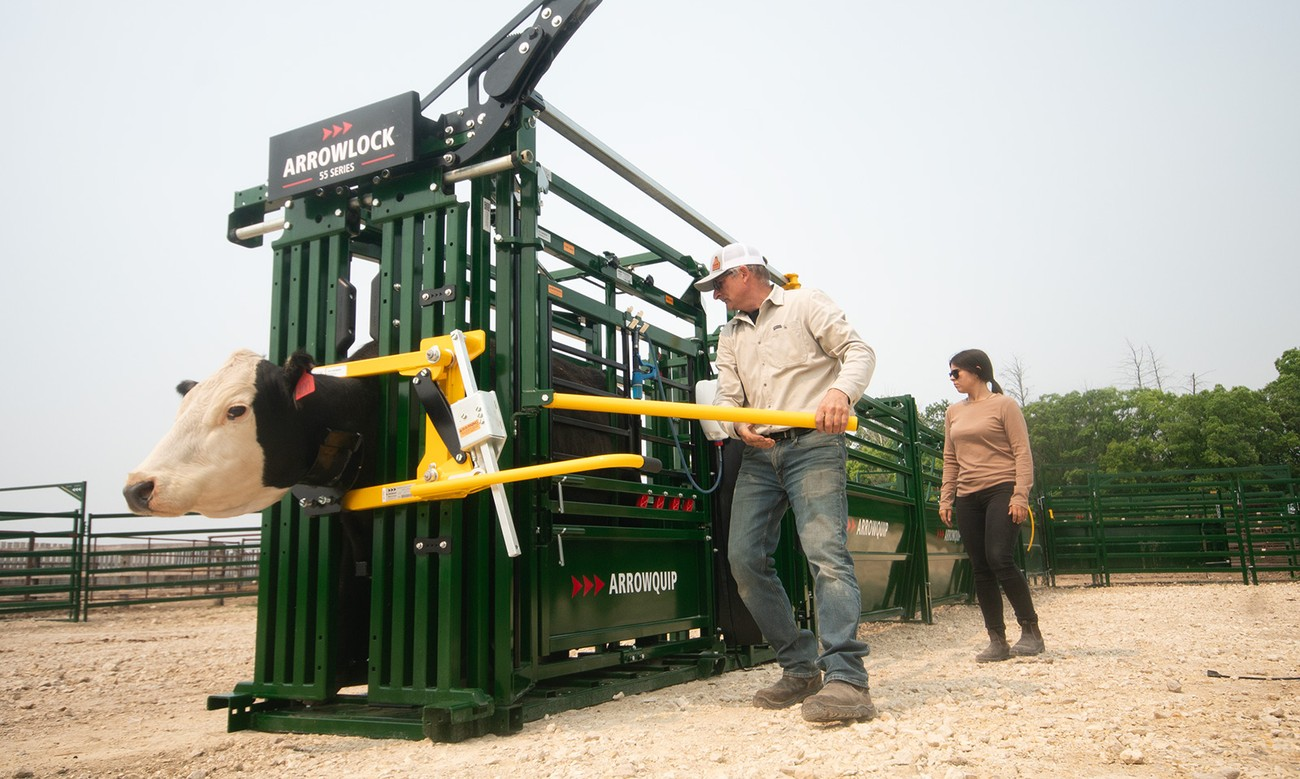
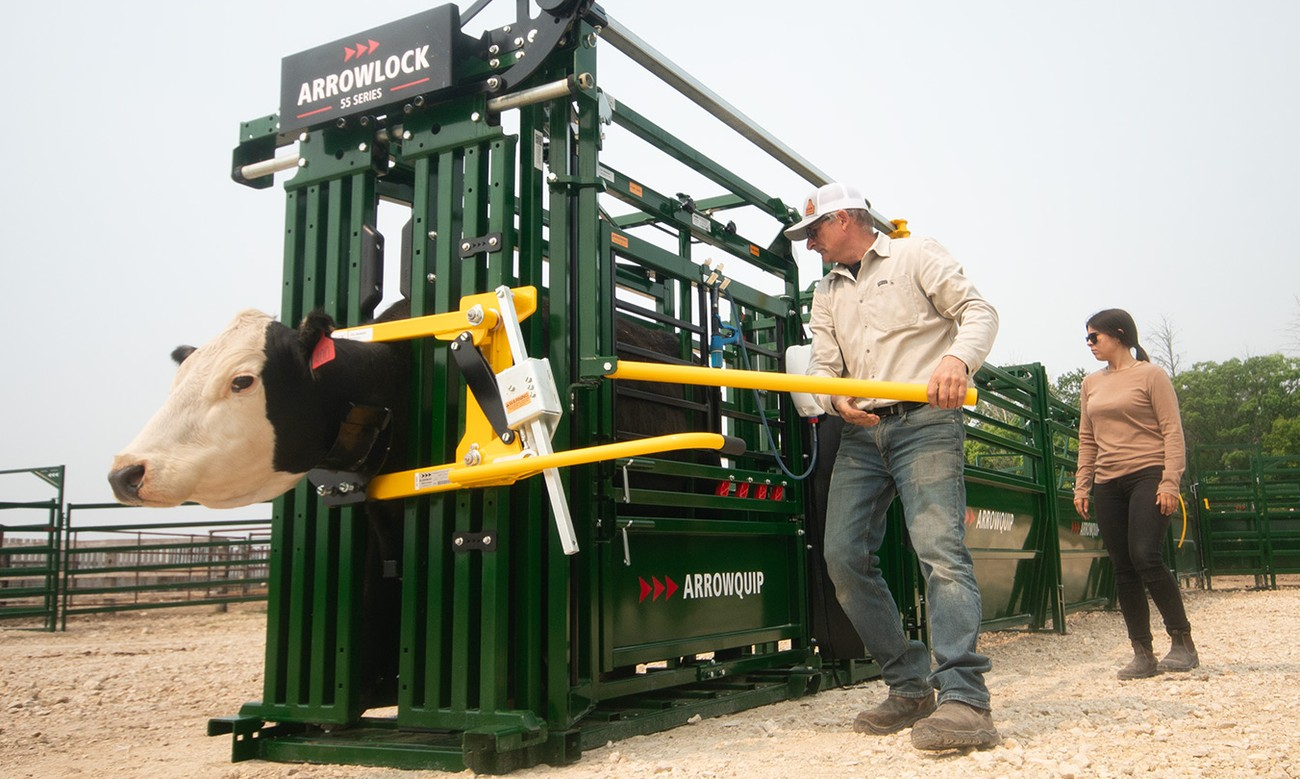
bb-v4: recrop hero+55 card, 7-card lattice, all-products page, add-to-pricing, mobile nav/panel fixes

diff --git a/bb-v4/index.html b/bb-v4/index.html
@@ -7,7 +7,7 @@
 <title>Double B Farm Supply &mdash; Arrowquip cattle handling equipment, McAlisterville PA</title>
 <meta name="description" content="Double B Farm Supply sells Arrowquip cattle handling equipment &mdash; chutes, alleys, tubs, panels and gates &mdash; from McAlisterville PA into New York and New Jersey.">
 <link rel="icon" href="img/logo.png">
-<link rel="stylesheet" href="css/style.css?v=55b">
+<link rel="stylesheet" href="css/style.css?v=56">
 </head>
 <body>
 <a class="skip" href="#products">Skip to products</a>
@@ -35,7 +35,7 @@
     <picture>
       <source media="(min-width:861px)" srcset="img/hero-w.jpg?v=55">
       <source media="(min-width:601px)" srcset="img/hero-m.jpg?v=55">
-      <img class="hero__img" src="img/hero-p.jpg?v=55" fetchpriority="high" alt="A black baldy cow standing calm in an Arrowquip Arrowlock 55 chute, head out through the headgate, handlers working the squeeze">
+      <img class="hero__img" src="img/hero-p.jpg?v=56" fetchpriority="high" alt="A black baldy cow standing calm in an Arrowquip Arrowlock 55 chute, head out through the headgate, handlers working the squeeze">
     </picture>
     <a class="hero__cue" href="#products" aria-label="See what we carry"><span aria-hidden="true">&#8595;</span></a>
     <div class="glass hero__panel">
@@ -61,7 +61,7 @@
 <article class="card">
         <a class="card__hit" href="#lb-al55">
           <span class="card__ph">
-            <img class="ph ph--a" src="img/p-al55.jpg" alt="Arrowquip Arrowlock 55 Series manual cattle chute sold by Double B Farm Supply">
+            <img class="ph ph--a" src="img/p-al55-card.jpg?v=56" alt="Arrowquip Arrowlock 55 Series manual cattle chute sold by Double B Farm Supply">
           </span>
           <span class="card__cap">
             <span class="card__t">Arrowlock 55 <span class="arw" aria-hidden="true">&rarr;</span></span>
@@ -69,6 +69,7 @@
             <span class="card__m">The line starts here &middot; worked by hand at the head gate</span>
           </span>
         </a>
+        <button class="card__add" type="button" data-product="Arrowlock 55 manual chute" data-want="Manual chute">+ Add to pricing</button>
       </article>
 <article class="card">
         <a class="card__hit" href="#lb-al75">
@@ -81,6 +82,7 @@
             <span class="card__m">The middle of the line &middot; one step up from the 55</span>
           </span>
         </a>
+        <button class="card__add" type="button" data-product="Arrowlock 75 manual chute" data-want="Manual chute">+ Add to pricing</button>
       </article>
 <article class="card">
         <a class="card__hit" href="#lb-al88">
@@ -90,24 +92,12 @@
           <span class="card__cap">
             <span class="card__t">Arrowlock 88 <span class="arw" aria-hidden="true">&rarr;</span></span>
             <span class="card__s">Manual squeeze chute</span>
-            <span class="card__m">Top of the manual line &middot; the chute in our hero photo</span>
+            <span class="card__m">Top of the manual line &middot; the big brother of our hero chute</span>
           </span>
         </a>
+        <button class="card__add" type="button" data-product="Arrowlock 88 manual chute" data-want="Manual chute">+ Add to pricing</button>
       </article>
 <article class="card">
-        <a class="card__hit" href="#lb-tub">
-          <span class="card__ph">
-            <img class="ph ph--a" src="img/p-tubs-a.jpg" alt="Arrowquip crowding tub sold by Double B Farm Supply">
-            <img class="ph ph--b" src="img/p-tubs-b.jpg" alt="Arrowquip Budflow tub sold by Double B Farm Supply">
-          </span>
-          <span class="card__cap">
-            <span class="card__t">The Budflow <span class="arw" aria-hidden="true">&rarr;</span></span>
-            <span class="card__s">Cattle tubs</span>
-            <span class="card__m">2 units &middot; crowding and Budflow</span>
-          </span>
-        </a>
-      </article>
-      <article class="card">
         <a class="card__hit" href="#lb-alley">
           <span class="card__ph">
             <img class="ph ph--a" src="img/p-extras-a.jpg" alt="Arrowquip Easy Flow alley sold by Double B Farm Supply">
@@ -118,6 +108,7 @@
             <span class="card__m">The lanes that feed the chute</span>
           </span>
         </a>
+        <button class="card__add" type="button" data-product="Easy Flow alley" data-want="Alleys &amp; sorting">+ Add to pricing</button>
       </article>
       <article class="card">
         <a class="card__hit" href="#lb-pens">
@@ -130,6 +121,7 @@
             <span class="card__m">Calving pens and the parts that bolt on</span>
           </span>
         </a>
+        <button class="card__add" type="button" data-product="Calving pen" data-want="Calving pen">+ Add to pricing</button>
       </article>
 <article class="card">
         <a class="card__hit" href="#lb-por">
@@ -143,19 +135,7 @@
             <span class="card__m">9 units &middot; hitch it and go</span>
           </span>
         </a>
-      </article>
-<article class="card">
-        <a class="card__hit" href="#lb-pan">
-          <span class="card__ph">
-            <img class="ph ph--a" src="img/p-panels-a.jpg" alt="Arrowquip heavy duty panels sold by Double B Farm Supply">
-            <img class="ph ph--b" src="img/p-panels-b.jpg" alt="Arrowquip heavy duty gates sold by Double B Farm Supply">
-          </span>
-          <span class="card__cap">
-            <span class="card__t">The gates <span class="arw" aria-hidden="true">&rarr;</span></span>
-            <span class="card__s">Panels &amp; gates</span>
-            <span class="card__m">4 units &middot; low pressure and heavy duty</span>
-          </span>
-        </a>
+        <button class="card__add" type="button" data-product="Portable corral rig" data-want="Portable chute, alley &amp; tub">+ Add to pricing</button>
       </article>
 <article class="card">
         <a class="card__hit" href="#lb-hyd">
@@ -169,8 +149,10 @@
             <span class="card__m">5 units &middot; one lever, one man</span>
           </span>
         </a>
+        <button class="card__add" type="button" data-product="Hydraulic chute (Powerlock 108 line)" data-want="Hydraulic chute">+ Add to pricing</button>
       </article>
     </div>
+    <p class="work__all"><a class="btn btn--ghost" href="products.html">See all 32 products</a></p>
     </div>
   </div>
 </section>
@@ -255,6 +237,8 @@
           </div>
           <div class="fld fld--wide"><label for="f-pic">Photos of your setup</label><input id="f-pic" name="photos" type="file" accept="image/*" multiple></div>
 
+          <input type="hidden" id="f-products" name="products" value="">
+          <p class="picked" id="picked" hidden></p>
           <fieldset class="opts">
             <legend>What are you after?</legend>
             <label class="opt"><input type="checkbox" name="want" value="A full handling system"><span>A full handling system</span></label>
@@ -327,12 +311,9 @@
 <div class="lb" id="lb-al55"><a class="lb__x" href="#products">Close</a><div class="lb__box"><img src="img/p-al55.jpg" alt="Arrowquip Arrowlock 55 Series manual cattle chute sold by Double B Farm Supply"><p>Arrowlock 55 Series &mdash; manual squeeze chute, worked by hand at the head gate</p></div></div>
 <div class="lb" id="lb-al75"><a class="lb__x" href="#products">Close</a><div class="lb__box"><img src="img/p-al75.jpg" alt="Arrowquip Arrowlock 75 Series manual cattle chute sold by Double B Farm Supply"><p>Arrowlock 75 Series &mdash; manual squeeze chute, the middle of the Arrowlock line</p></div></div>
 <div class="lb" id="lb-al88"><a class="lb__x" href="#products">Close</a><div class="lb__box"><img src="img/p-al88.jpg" alt="Arrowquip Arrowlock 88 Series manual cattle chute sold by Double B Farm Supply"><p>Arrowlock 88 Series &mdash; top of the manual line</p></div></div>
-<div class="lb" id="lb-tub"><a class="lb__x" href="#products">Close</a><div class="lb__box"><img src="img/p-tubs-a.jpg" alt="Arrowquip crowding tub sold by Double B Farm Supply"><img src="img/p-tubs-b.jpg" alt="Arrowquip Budflow tub sold by Double B Farm Supply"><p>Cattle tubs &mdash; 2 units &middot; crowding and Budflow</p></div></div>
 <div class="lb" id="lb-alley"><a class="lb__x" href="#products">Close</a><div class="lb__box"><img src="img/p-extras-a.jpg" alt="Arrowquip Easy Flow alley sold by Double B Farm Supply"><p>Cattle alleys &amp; ramps &mdash; the lanes that feed the chute</p></div></div>
 <div class="lb" id="lb-pens"><a class="lb__x" href="#products">Close</a><div class="lb__box"><img src="img/p-extras-b.jpg" alt="Arrowquip calving pen sold by Double B Farm Supply"><p>Calving pens &amp; penning &mdash; and the parts that bolt on</p></div></div>
 <div class="lb" id="lb-por"><a class="lb__x" href="#products">Close</a><div class="lb__box"><img src="img/p-portable-a.jpg" alt="Arrowquip Portable 88 Chute, Alley and Tub sold by Double B Farm Supply"><img src="img/p-portable-b.jpg" alt="Arrowquip Heeler Portable Corral sold by Double B Farm Supply"><p>Portable handling equipment &mdash; 9 units &middot; hitch it and go</p></div></div>
-<div class="lb" id="lb-pan"><a class="lb__x" href="#products">Close</a><div class="lb__box"><img src="img/p-panels-a.jpg" alt="Arrowquip heavy duty panels sold by Double B Farm Supply"><img src="img/p-panels-b.jpg" alt="Arrowquip heavy duty gates sold by Double B Farm Supply"><p>Panels &amp; gates &mdash; 4 units &middot; low pressure and heavy duty</p></div></div>
-
 <script type="application/ld+json">
 {
   "@context": "https://schema.org",
@@ -368,6 +349,6 @@
   ]
 }
 </script>
-<script defer src="a.js?v=1"></script>
+<script defer src="a.js?v=2"></script>
 <div class="stickycta" id="stickycta"><a class="btn" href="#quote">Get pricing</a><a class="stickycta__call" href="tel:17176496929">Call Mike</a></div><script>(function(){var b=document.getElementById("stickycta"),h=document.querySelector(".hero");if(!b||!h)return;addEventListener("scroll",function(){b.classList.toggle("on",scrollY>h.offsetHeight*0.8)},{passive:true})})();</script></body>
 </html>

diff --git a/bb-v4/products.html b/bb-v4/products.html
@@ -1,0 +1,96 @@
+<!doctype html>
+<html lang="en">
+<head>
+<meta charset="utf-8">
+<meta name="viewport" content="width=device-width, initial-scale=1">
+<meta name="robots" content="noindex,nofollow">
+<title>Every product &mdash; Double B Farm Supply</title>
+<meta name="description" content="Every Arrowquip line Double B Farm Supply carries: manual and hydraulic chutes, tubs, alleys, portable equipment, panels, gates and pens.">
+<link rel="icon" href="img/logo.png">
+<link rel="stylesheet" href="css/style.css?v=56">
+<style>
+.plist{display:grid;grid-template-columns:1fr 1fr;gap:var(--gut);margin-top:1.3rem}
+.plist .card__cap{border-top:2px solid var(--ink)}
+.plist .card__u{display:block;font-size:.95rem;line-height:1.5;margin-top:.35rem;color:var(--ink)}
+.pback{margin-top:1.6rem;display:flex;gap:1rem;flex-wrap:wrap}
+@media(max-width:700px){.plist{grid-template-columns:1fr}}
+</style>
+</head>
+<body>
+
+<header class="nav" id="top">
+  <div class="nav__in">
+    <a class="nav__brand" href="index.html">
+      <img class="nav__mark" src="img/logo.png" width="512" height="512" alt="Double B Farm Supply">
+      <span class="nav__name"><span class="nav__name-full">Double B Farm Supply</span><span class="nav__name-short">Double B</span></span>
+    </a>
+    <a class="nav__tel" href="tel:+17176496929" aria-label="7 1 7. 6 4 9. 6 9 2 9">717-649-6929</a>
+  </div>
+</header>
+
+<main>
+<section class="band band--brand">
+  <div class="wrap">
+    <h2>Every product we carry</h2>
+    <p class="lede">All thirty-two Arrowquip units, line by line. Call and Mike prices your yard with the ones you actually need.</p>
+
+    <div class="plist">
+      <article class="card">
+        <span class="card__ph"><img class="ph ph--a" src="img/p-al55-card.jpg?v=56" alt="Arrowquip Arrowlock 55 Series manual cattle chute" loading="lazy"></span>
+        <span class="card__cap"><span class="card__t">Manual squeeze chutes</span>
+        <span class="card__u">Arrowlock 55 Series &middot; Arrowlock 75 Series &middot; Arrowlock 88 Series &mdash; worked by hand at the head gate.</span></span>
+      </article>
+      <article class="card">
+        <span class="card__ph"><img class="ph ph--a" src="img/p-hydraulic-a.jpg" alt="Arrowquip hydraulic cattle chute" loading="lazy"></span>
+        <span class="card__cap"><span class="card__t">Hydraulic cattle chutes</span>
+        <span class="card__u">Powerlock 105 Series &middot; Powerlock 108 Series &middot; the Major &middot; the Colonel &middot; the General &mdash; one lever, one man.</span></span>
+      </article>
+      <article class="card">
+        <span class="card__ph"><img class="ph ph--a" src="img/p-tubs-b.jpg" alt="Arrowquip Budflow cattle tub" loading="lazy"></span>
+        <span class="card__cap"><span class="card__t">Cattle tubs</span>
+        <span class="card__u">The crowding tub and the Budflow tub &mdash; the round pens that feed cattle into the alley.</span></span>
+      </article>
+      <article class="card">
+        <span class="card__ph"><img class="ph ph--a" src="img/p-extras-a.jpg" alt="Arrowquip Easy Flow cattle alley" loading="lazy"></span>
+        <span class="card__cap"><span class="card__t">Alleys &amp; ramps</span>
+        <span class="card__u">The Easy Flow alley and the loading chute &mdash; the lanes between the tub and the squeeze.</span></span>
+      </article>
+      <article class="card">
+        <span class="card__ph"><img class="ph ph--a" src="img/p-portable-a.jpg" alt="Arrowquip portable chute, alley and tub" loading="lazy"></span>
+        <span class="card__cap"><span class="card__t">Portable handling</span>
+        <span class="card__u">Portable 75 and 88 chute-and-alley rigs, with or without a tub &middot; the Powerlock 108 on a trailer &middot; the Heeler and Heeler 75C corrals &mdash; nine units that hitch behind a truck.</span></span>
+      </article>
+      <article class="card">
+        <span class="card__ph"><img class="ph ph--a" src="img/p-panels-a.jpg" alt="Arrowquip heavy duty panels and gates" loading="lazy"></span>
+        <span class="card__cap"><span class="card__t">Panels &amp; gates</span>
+        <span class="card__u">Four units &mdash; low pressure and heavy duty, the steel that shapes the yard.</span></span>
+      </article>
+      <article class="card">
+        <span class="card__ph"><img class="ph ph--a" src="img/p-extras-b.jpg" alt="Arrowquip calving pen" loading="lazy"></span>
+        <span class="card__cap"><span class="card__t">Pens &amp; penning</span>
+        <span class="card__u">Calving pens and the parts that bolt on.</span></span>
+      </article>
+      <article class="card">
+        <span class="card__ph"><img class="ph ph--a" src="img/cta-edge.jpg" alt="A complete Arrowquip handling system installed in a barn" loading="lazy"></span>
+        <span class="card__cap"><span class="card__t">Feeders, parts &amp; add-ons</span>
+        <span class="card__u">Mineral and hay feeders, plus the parts and add-ons that keep a system working.</span></span>
+      </article>
+    </div>
+
+    <div class="pback">
+      <a class="btn" href="index.html#quote">Get pricing from Mike</a>
+      <a class="btn btn--ghost" href="index.html">&larr; Back to the site</a>
+    </div>
+  </div>
+</section>
+</main>
+
+<footer class="foot">
+  <div class="wrap">
+    <p class="foot__slogan">We set it up.</p>
+    <p class="foot__adm">&copy; 2026 Double B Farm Supply, Inc. &middot; McAlisterville, Pennsylvania &middot; <a class="foot__adm" href="tel:+17176496929">717-649-6929</a></p>
+  </div>
+</footer>
+
+</body>
+</html>

diff --git a/bb-v4/css/style.css b/bb-v4/css/style.css
@@ -98,7 +98,8 @@ li{list-style:none}
           text-transform:uppercase;color:var(--ink)}
 .hero__sub{font-size:clamp(11px,3.2cqw,1.05rem);font-weight:700;margin-top:.55rem;line-height:1.25}
 .hero__where{font-size:clamp(11px,2.9cqw,.98rem);color:var(--ink-60);margin-top:.15rem;line-height:1.25}
-.hero__btn{margin-top:.85rem}
+.hero__btn{margin-top:.85rem;font-size:1.3rem;min-height:60px;padding:.9rem 2.2rem;
+           box-shadow:7px 7px 0 var(--ink)}
 .hero__cut{width:100%;height:auto;object-fit:contain;
   -webkit-mask-image:linear-gradient(to bottom,#000 78%,transparent 99%);
           mask-image:linear-gradient(to bottom,#000 78%,transparent 99%);
@@ -137,10 +138,17 @@ li{list-style:none}
 .work{margin-top:1.3rem}
 .work__grid{display:grid;grid-template-columns:1fr;gap:var(--gut)}
 .work__grid--three{grid-template-columns:repeat(3,1fr)}
-/* one larger card leads, the rest even: 2x2 lead + 8 = four full rows, no orphans */
-.work__grid--three .card:first-child{grid-column:1 / 3;grid-row:1 / 3}
-.work__grid--three .card:first-child .card__hit{display:flex;flex-direction:column;height:100%}
-.work__grid--three .card:first-child .card__ph{aspect-ratio:auto;flex:1;min-height:0}
+/* one larger card leads full-width, then 6 even: two clean rows of three, no orphans */
+.work__grid--three .card:first-child{grid-column:1/-1}
+.work__grid--three .card:first-child .card__ph{aspect-ratio:5/2}
+.work__all{margin-top:var(--gut)}
+.card__add{display:block;width:100%;padding:.6rem .9rem;background:var(--paper);
+           color:var(--brand-deep);font:inherit;font-weight:800;font-size:.95rem;
+           border:0;border-top:2px solid var(--ink);cursor:pointer;text-align:left;min-height:44px}
+.card__add:hover,.card__add:focus-visible{background:rgba(51,128,36,.14)}
+.card__add.on{background:var(--brand);color:#fff}
+.picked{grid-column:1/-1;font-weight:700;background:rgba(51,128,36,.1);
+        border:2px solid var(--brand);padding:.6rem .8rem}
 .card{min-width:0;background:var(--paper);border:2px solid var(--ink);
       box-shadow:8px 8px 0 var(--ink);
       transition:transform 200ms ease,box-shadow 200ms ease}
@@ -283,7 +291,7 @@ input[type=file]{padding:.55rem}
   .hero__img{height:auto;object-fit:fill}
   .hero__cue{display:none}
   .glass{position:static;transform:none;width:100%;left:auto;top:auto;
-    grid-template-columns:1fr 33%;gap:3%;padding:1.3rem 3%;
+    grid-template-columns:1fr 30%;gap:4%;padding:1.3rem 6%;
     background-color:var(--paper);
     backdrop-filter:none;-webkit-backdrop-filter:none;
     border:0;border-radius:0;box-shadow:none}
@@ -309,17 +317,19 @@ input[type=file]{padding:.55rem}
 /* ================= PHONE TIER — LAST IN THE FILE (§8.16) ================= */
 @media (max-width:600px){
   .work__grid--three{grid-template-columns:1fr}
-  .work__grid--three .card:first-child{grid-column:auto;grid-row:auto;display:block}
-  .work__grid--three .card:first-child .card__ph{aspect-ratio:3/2;flex:none}
+  .work__grid--three .card:first-child{grid-column:auto}
+  .work__grid--three .card:first-child .card__ph{aspect-ratio:3/2}
   :root{--pad:clamp(1.6rem,6vw,2.4rem)}
   .band{animation:none}
   .nav__links{display:none}
   .nav__name-full{display:none}
   .nav__name-short{display:inline}
-  .nav__mark{width:52px;height:52px}
-  .nav__tel{margin-left:auto}
+  .nav__in{gap:.8rem;padding:.5rem .7rem}
+  .nav__mark{width:44px;height:44px}
+  .nav__name{font-size:1.05rem}
+  .nav__tel{margin-left:auto;font-size:1.05rem}
 
-  .glass{grid-template-columns:1fr 32%;gap:3%;padding:1.1rem 2%}
+  .glass{grid-template-columns:1fr 30%;gap:4%;padding:1.1rem 5.5%}
   .glass h1{font-size:min(3.9rem,13cqw)}
   .hero__eyebrow{margin-bottom:.25rem}
   .hero__sub{margin-top:.4rem}

diff --git a/bb-v4/a.js b/bb-v4/a.js
@@ -73,6 +73,24 @@
   addEventListener('scroll', function () { if (!tick) tick = requestAnimationFrame(paint); }, { passive: true });
   paint();
 
+  /* ---- add to pricing: card button pre-fills the quote form -------------- */
+  var picks = [];
+  document.addEventListener('click', function (e) {
+    var b = e.target.closest ? e.target.closest('.card__add') : null;
+    if (!b) return;
+    var box = document.querySelector('.opts input[value="' + b.getAttribute('data-want') + '"]');
+    if (box) box.checked = true;
+    var p = b.getAttribute('data-product');
+    if (picks.indexOf(p) < 0) picks.push(p);
+    var hid = document.getElementById('f-products');
+    if (hid) hid.value = picks.join(', ');
+    var line = document.getElementById('picked');
+    if (line) { line.textContent = 'On your pricing request: ' + picks.join(', '); line.hidden = false; }
+    b.textContent = 'Added ✓';
+    b.classList.add('on');
+    ev('Add to pricing', p);
+  });
+
   /* ---- §8.4 one gesture per photograph: on touch the first tap flips ----- */
   if (matchMedia('(hover: none)').matches) {
     document.addEventListener('click', function (e) {
